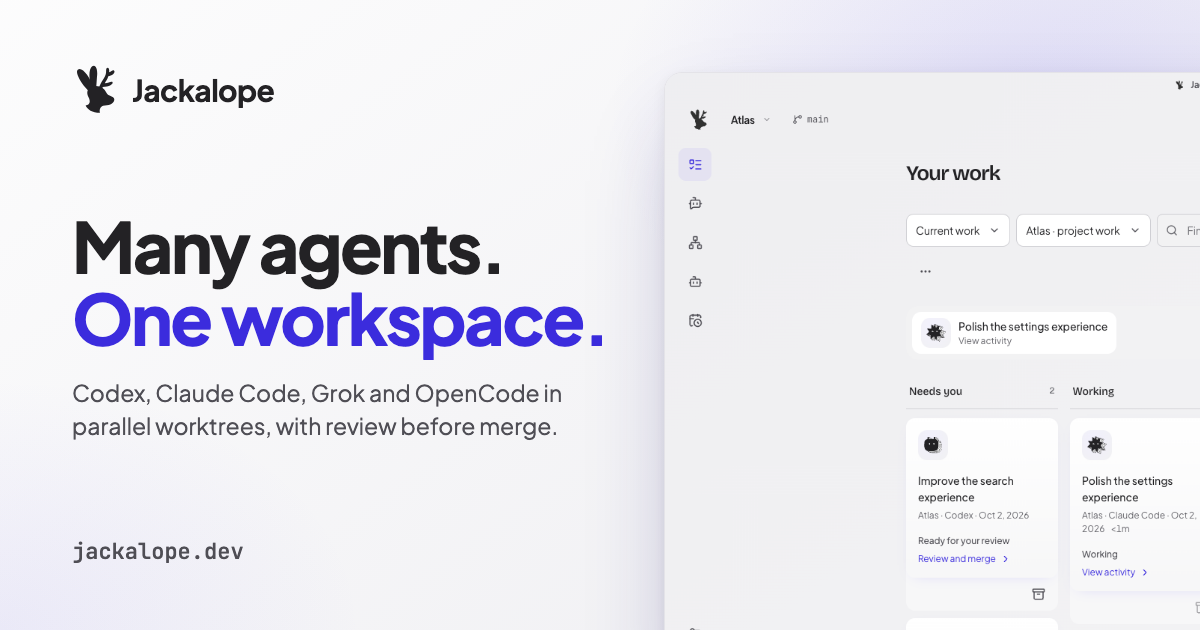
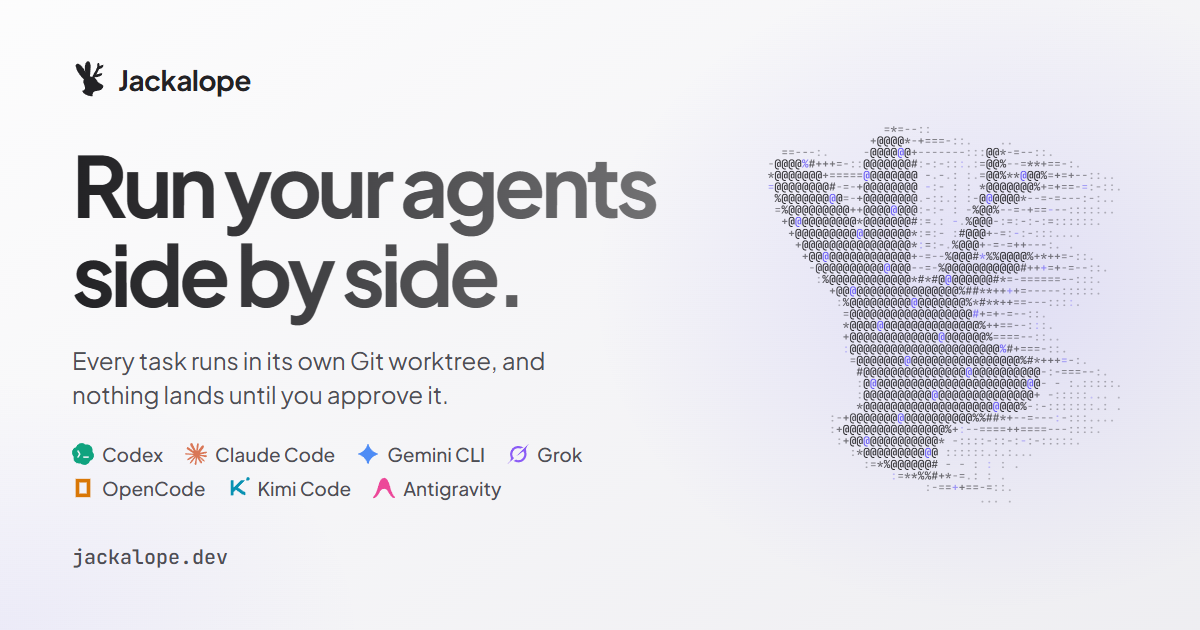
Refresh the share image to match the landing page
The Open Graph and X card image now mirrors the hero: the headline, the ASCII
mark and the agent roster, drawn from @jackalope/brand. The image URL carries a
version so link previews fetch the new image, and its alt text describes it.

diff --git a/apps/website/scripts/social-preview.html b/apps/website/scripts/social-preview.html
@@ -3,7 +3,11 @@
   <head>
     <meta charset="UTF-8" />
     <title>Jackalope social preview</title>
-    <!-- Values follow themeTokens() for the website theme: Electric Indigo, light, atmosphere 18. -->
+    <!--
+      Mirrors the landing page hero in its light theme (Electric Indigo, atmosphere 18).
+      capture-social.mjs supplies the mark and agent logos from @jackalope/brand and calls
+      render() before the screenshot.
+    -->
     <style>
       @font-face {
         font-family: 'Plus Jakarta Sans Variable';
@@ -19,7 +23,6 @@
       }
       :root {
         --color-accent: hsl(245 88% 64%);
-        --color-accent-ink: hsl(245 72% 52%);
         --color-bg: hsl(245 8.1% 99%);
         --color-shell: hsl(245 11.7% 94%);
         --color-border-subtle: hsl(245 8.1% 90%);
@@ -29,6 +32,7 @@
       * {
         box-sizing: border-box;
         margin: 0;
+        padding: 0;
       }
       html,
       body {
@@ -41,93 +45,199 @@
         font-family: 'Plus Jakarta Sans Variable', sans-serif;
         color: var(--color-text-primary);
         background:
-          radial-gradient(640px 420px at 88% 18%, hsl(245 88% 64% / 0.16), transparent 70%),
-          radial-gradient(520px 360px at 0% 100%, hsl(245 88% 64% / 0.08), transparent 70%),
+          radial-gradient(560px 460px at 82% 46%, hsl(245 88% 64% / 0.13), transparent 70%),
+          radial-gradient(520px 360px at 0% 100%, hsl(245 88% 64% / 0.07), transparent 70%),
           linear-gradient(145deg, var(--color-bg), var(--color-shell));
       }
       .copy {
         position: absolute;
         left: 72px;
-        top: 64px;
-        bottom: 64px;
-        width: 560px;
+        top: 60px;
+        bottom: 60px;
+        width: 640px;
         display: flex;
         flex-direction: column;
       }
       .brand {
         display: flex;
         align-items: center;
-        gap: 14px;
-        font-size: 30px;
+        gap: 12px;
+        font-size: 28px;
         font-weight: 700;
         letter-spacing: -0.02em;
       }
       .brand svg {
-        width: 46px;
-        height: 51px;
+        width: 34px;
+        height: 38px;
         fill: var(--color-text-primary);
       }
       h1 {
         margin-top: auto;
-        font-size: 70px;
-        line-height: 1.04;
-        font-weight: 750;
-        letter-spacing: -0.035em;
+        font-size: 84px;
+        font-weight: 700;
+        line-height: 1;
+        letter-spacing: -0.055em;
       }
       h1 span {
         display: block;
-        color: var(--color-accent-ink);
+        padding-bottom: 0.14em;
+        margin-bottom: -0.08em;
+        background: linear-gradient(
+          90deg,
+          var(--color-text-primary),
+          color-mix(in srgb, var(--color-text-primary) 60%, var(--color-bg))
+        );
+        -webkit-background-clip: text;
+        background-clip: text;
+        color: transparent;
       }
       p {
-        margin-top: 22px;
-        font-size: 23px;
-        line-height: 1.42;
+        margin-top: 24px;
+        max-width: 560px;
+        font-size: 24px;
+        line-height: 1.4;
         color: var(--color-text-secondary);
+      }
+      .agents {
+        display: flex;
+        flex-wrap: wrap;
+        gap: 10px 22px;
+        margin-top: 30px;
+        list-style: none;
+        font-size: 19px;
+        font-weight: 500;
+        color: var(--color-text-secondary);
+      }
+      .agents li {
+        display: flex;
+        align-items: center;
+        gap: 8px;
+      }
+      .agents svg {
+        width: 22px;
+        height: 22px;
       }
       .url {
         margin-top: auto;
         font-family: 'JetBrains Mono Variable', monospace;
-        font-size: 22px;
+        font-size: 20px;
         font-weight: 500;
         color: var(--color-text-secondary);
       }
-      .shot {
+      #mark {
         position: absolute;
-        left: 664px;
-        top: 72px;
-        width: 1080px;
-        border-radius: 18px;
-        overflow: hidden;
-        border: 1px solid var(--color-border-subtle);
-        box-shadow:
-          0 40px 90px -24px hsl(245 60% 30% / 0.32),
-          0 4px 14px hsl(0 0% 0% / 0.06);
-      }
-      .shot img {
-        display: block;
-        width: 100%;
+        right: 40px;
+        top: 55px;
+        width: 440px;
+        height: 520px;
+        color: var(--color-text-primary);
       }
     </style>
   </head>
   <body>
     <div class="copy">
       <div class="brand">
-        <svg viewBox="38 4 105 117" aria-hidden="true">
-          <path d="M85 65 C77 48 74 16 84 9 C94 3 97 20 95 34 L93 62 Z" />
-          <path d="M80 68 C64 58 43 23 51 17 C60 9 79 32 88 61 Z" />
-          <path
-            d="M99 64 C100 49 111 40 115 28 C117 23 115 17 117 14 C121 10 124 16 123 23 C128 22 131 17 134 19 C139 24 128 32 121 32 C119 39 115 44 113 48 C122 47 127 43 130 45 C135 50 122 57 108 57 L107 67 Z"
-          />
-          <path
-            d="M78 59 C86 53 100 53 109 60 C116 65 116 73 124 76 L132 80 C139 85 132 96 122 98 L109 100 C102 103 100 110 102 116 C84 116 73 108 69 99 C80 98 80 89 76 81 C72 73 71 65 78 59 Z"
-          />
-        </svg>
+        <svg id="brand-mark" viewBox="38 4 105 117" aria-hidden="true"></svg>
         Jackalope
       </div>
-      <h1>Many agents.<span>One workspace.</span></h1>
-      <p>Codex, Claude Code, Grok and OpenCode in parallel worktrees, with review before merge.</p>
+      <h1><span>Run your agents</span><span>side by side.</span></h1>
+      <p>Every task runs in its own Git worktree, and nothing lands until you approve it.</p>
+      <ul class="agents" id="agents"></ul>
       <div class="url">jackalope.dev</div>
     </div>
-    <div class="shot"><img src="../public/media/tasks-light.png" alt="" /></div>
+    <canvas id="mark"></canvas>
+    <script>
+      const SVG = 'http://www.w3.org/2000/svg';
+      const RAMP = ' .:-=+*#%@';
+      const VIEW = { x: 38, y: 4, width: 105, height: 117 };
+      const ECHO = { x: 4, y: 1 };
+
+      // The landing page's AsciiMark as one still frame: a solid head with outlined
+      // echoes trailing right, read back from a one-pixel-per-cell raster.
+      function drawMark(canvas, mark, echoes) {
+        const box = canvas.getBoundingClientRect();
+        const ratio = 2;
+        canvas.width = box.width * ratio;
+        canvas.height = box.height * ratio;
+        const context = canvas.getContext('2d');
+        context.setTransform(ratio, 0, 0, ratio, 0, 0);
+        const size = 11;
+        const cellWidth = size * 0.62;
+        const cellHeight = size * 1.05;
+        const cols = Math.floor(box.width / cellWidth);
+        const rows = Math.floor(box.height / cellHeight);
+        const sampler = document.createElement('canvas').getContext('2d');
+        sampler.canvas.width = cols;
+        sampler.canvas.height = rows;
+        const paths = mark.map((d) => new Path2D(d));
+        const spanX = VIEW.width + ECHO.x * echoes;
+        const spanY = VIEW.height + ECHO.y * echoes;
+        const scale = Math.min(box.width / spanX, box.height / spanY) * 0.94;
+        const offsetX = (box.width - spanX * scale) / 2;
+        const offsetY = (box.height - spanY * scale) / 2;
+        const place = (shift) =>
+          sampler.setTransform(
+            scale / cellWidth,
+            0,
+            0,
+            scale / cellHeight,
+            (offsetX + (ECHO.x * shift - VIEW.x) * scale) / cellWidth,
+            (offsetY + (ECHO.y * shift - VIEW.y) * scale) / cellHeight,
+          );
+        sampler.lineWidth = 1.6;
+        for (let echo = echoes; echo >= 1; echo--) {
+          place(echo);
+          sampler.strokeStyle = `rgba(0,0,0,${0.55 - (echo / echoes) * 0.4})`;
+          for (const path of paths) sampler.stroke(path);
+        }
+        place(0);
+        sampler.fillStyle = '#000';
+        for (const path of paths) sampler.fill(path);
+        const data = sampler.getImageData(0, 0, cols, rows).data;
+        const style = getComputedStyle(canvas);
+        const ink = style.color;
+        const accent = style.getPropertyValue('--color-accent').trim();
+        context.font = `500 ${size}px "JetBrains Mono Variable", monospace`;
+        context.textBaseline = 'top';
+        for (let row = 0; row < rows; row++) {
+          for (let col = 0; col < cols; col++) {
+            const level = data[(row * cols + col) * 4 + 3] / 255;
+            if (level < 0.06) continue;
+            const glyph = RAMP[Math.min(RAMP.length - 1, Math.ceil(level * (RAMP.length - 1)))];
+            context.globalAlpha = 0.22 + level * 0.78;
+            // A sparse, fixed scatter of accent glyphs, as the hero's shimmer shows.
+            context.fillStyle = (row * 31 + col * 17) % 23 === 0 ? accent : ink;
+            context.fillText(glyph, col * cellWidth, row * cellHeight);
+          }
+        }
+      }
+
+      // capture-social.mjs calls this with the brand data before the screenshot.
+      window.render = ({ mark, agents }) => {
+        const brand = document.getElementById('brand-mark');
+        for (const d of mark) {
+          const path = document.createElementNS(SVG, 'path');
+          path.setAttribute('d', d);
+          brand.append(path);
+        }
+        const list = document.getElementById('agents');
+        for (const agent of agents) {
+          const item = document.createElement('li');
+          const icon = document.createElementNS(SVG, 'svg');
+          icon.setAttribute('viewBox', '0 0 24 24');
+          icon.setAttribute('aria-hidden', 'true');
+          for (const d of agent.paths) {
+            const path = document.createElementNS(SVG, 'path');
+            path.setAttribute('d', d);
+            path.setAttribute('fill-rule', 'evenodd');
+            path.setAttribute('fill', agent.color || 'currentColor');
+            icon.append(path);
+          }
+          item.append(icon, agent.name);
+          list.append(item);
+        }
+        drawMark(document.getElementById('mark'), mark, 6);
+      };
+    </script>
   </body>
 </html>

diff --git a/apps/website/src/seo.ts b/apps/website/src/seo.ts
@@ -12,6 +12,11 @@ const escapeHtml = (value: string) =>
       ({ '&': '&amp;', '<': '&lt;', '>': '&gt;', '"': '&quot;', "'": '&#39;' })[character] ||
       character,
   );
+/** The share image; bump the version when the image changes so link previews refetch it. */
+const SOCIAL_IMAGE = '/social-preview.png?v=2';
+const SOCIAL_IMAGE_ALT =
+  'Jackalope: Run your agents side by side. Codex, Claude Code, Gemini CLI and more, each in its own Git worktree.';
+
 export const routes = pages.map((page) => page.path);
 const indexablePages = pages.filter((page) => !page.noindex);
 
@@ -90,7 +95,7 @@ export function pageHtml(html: string, path: string, origin = siteOrigin) {
             dateModified: comparison.reviewed,
             author: { '@id': `${origin}/#organization` },
             publisher: { '@id': `${origin}/#organization` },
-            image: `${origin}/social-preview.png`,
+            image: `${origin}${SOCIAL_IMAGE}`,
             mainEntityOfPage: url,
             citation: comparison.sources.map((source) => source.href),
             about: [
@@ -108,14 +113,14 @@ export function pageHtml(html: string, path: string, origin = siteOrigin) {
               dateModified: post.updated ?? post.date,
               author: { '@type': 'Organization', name: company.name, url: company.url },
               publisher: { '@id': `${origin}/#organization` },
-              image: `${origin}/social-preview.png`,
+              image: `${origin}${SOCIAL_IMAGE}`,
               mainEntityOfPage: url,
             }
           : isArticle
             ? {
                 author: { '@type': 'Organization', name: company.name, url: company.url },
                 publisher: { '@id': `${origin}/#organization` },
-                image: `${origin}/social-preview.png`,
+                image: `${origin}${SOCIAL_IMAGE}`,
                 mainEntityOfPage: url,
               }
             : {}),
@@ -129,7 +134,7 @@ export function pageHtml(html: string, path: string, origin = siteOrigin) {
       url: origin,
       applicationCategory: 'DeveloperApplication',
       description,
-      image: `${origin}/social-preview.png`,
+      image: `${origin}${SOCIAL_IMAGE}`,
       featureList: [
         'Parallel coding-agent tasks',
         'Isolated Git worktrees',
@@ -222,16 +227,16 @@ export function pageHtml(html: string, path: string, origin = siteOrigin) {
     `<meta property="og:title" content="${escapeHtml(title)}" />`,
     `<meta property="og:description" content="${escapeHtml(description)}" />`,
     `<meta property="og:url" content="${escapeHtml(url)}" />`,
-    `<meta property="og:image" content="${origin}/social-preview.png" />`,
+    `<meta property="og:image" content="${origin}${SOCIAL_IMAGE}" />`,
     `<meta property="og:image:width" content="1200" />`,
     `<meta property="og:image:height" content="630" />`,
-    `<meta property="og:image:alt" content="Jackalope: Many agents. One workspace. Run coding agents in parallel, keep project context, and review changes." />`,
+    `<meta property="og:image:alt" content="${SOCIAL_IMAGE_ALT}" />`,
     `<meta name="twitter:card" content="summary_large_image" />`,
     `<meta name="twitter:site" content="@JackalopeDotDev" />`,
-    `<meta name="twitter:image:alt" content="Jackalope: A desktop workspace for parallel coding agents and code review." />`,
+    `<meta name="twitter:image:alt" content="${SOCIAL_IMAGE_ALT}" />`,
     `<meta name="twitter:title" content="${escapeHtml(title)}" />`,
     `<meta name="twitter:description" content="${escapeHtml(description)}" />`,
-    `<meta name="twitter:image" content="${origin}/social-preview.png" />`,
+    `<meta name="twitter:image" content="${origin}${SOCIAL_IMAGE}" />`,
     ...(post
       ? [
           `<meta property="article:published_time" content="${post.date}T12:00:00Z" />`,

diff --git a/apps/website/index.html b/apps/website/index.html
@@ -7,7 +7,7 @@
     <meta property="og:type" content="website" />
     <meta property="og:title" content="Jackalope: Run coding agents in parallel" />
     <meta property="og:description" content="Keep Codex, Claude Code, Grok, and OpenCode work coherent with project context, isolated Git worktrees, and review before integration." />
-    <meta property="og:image" content="/social-preview.png" />
+    <meta property="og:image" content="/social-preview.png?v=2" />
     <meta name="twitter:card" content="summary_large_image" />
     <link rel="icon" type="image/png" sizes="32x32" href="/favicon-32.png?v=2" />
     <link rel="icon" type="image/svg+xml" sizes="any" href="/favicon.svg?v=2" />

diff --git a/apps/website/README.md b/apps/website/README.md
@@ -72,8 +72,10 @@ it does not reproduce the edited film. Select reviewed runtime exports and updat
 all fields in `tour` together when replacing the film.
 
 `scripts/social-preview.html` is the source for `public/social-preview.png`, the
-Open Graph image. After changing it or `media/tasks-light.png`, regenerate it with
-`node apps/website/scripts/capture-social.mjs`.
+Open Graph image, drawn from the landing page hero with the mark and agent logos from
+`@jackalope/brand`. After changing it, regenerate it with
+`node apps/website/scripts/capture-social.mjs` and bump `SOCIAL_IMAGE` in `src/seo.ts` so
+link previews fetch the new image.
 
 ## Verification
 
